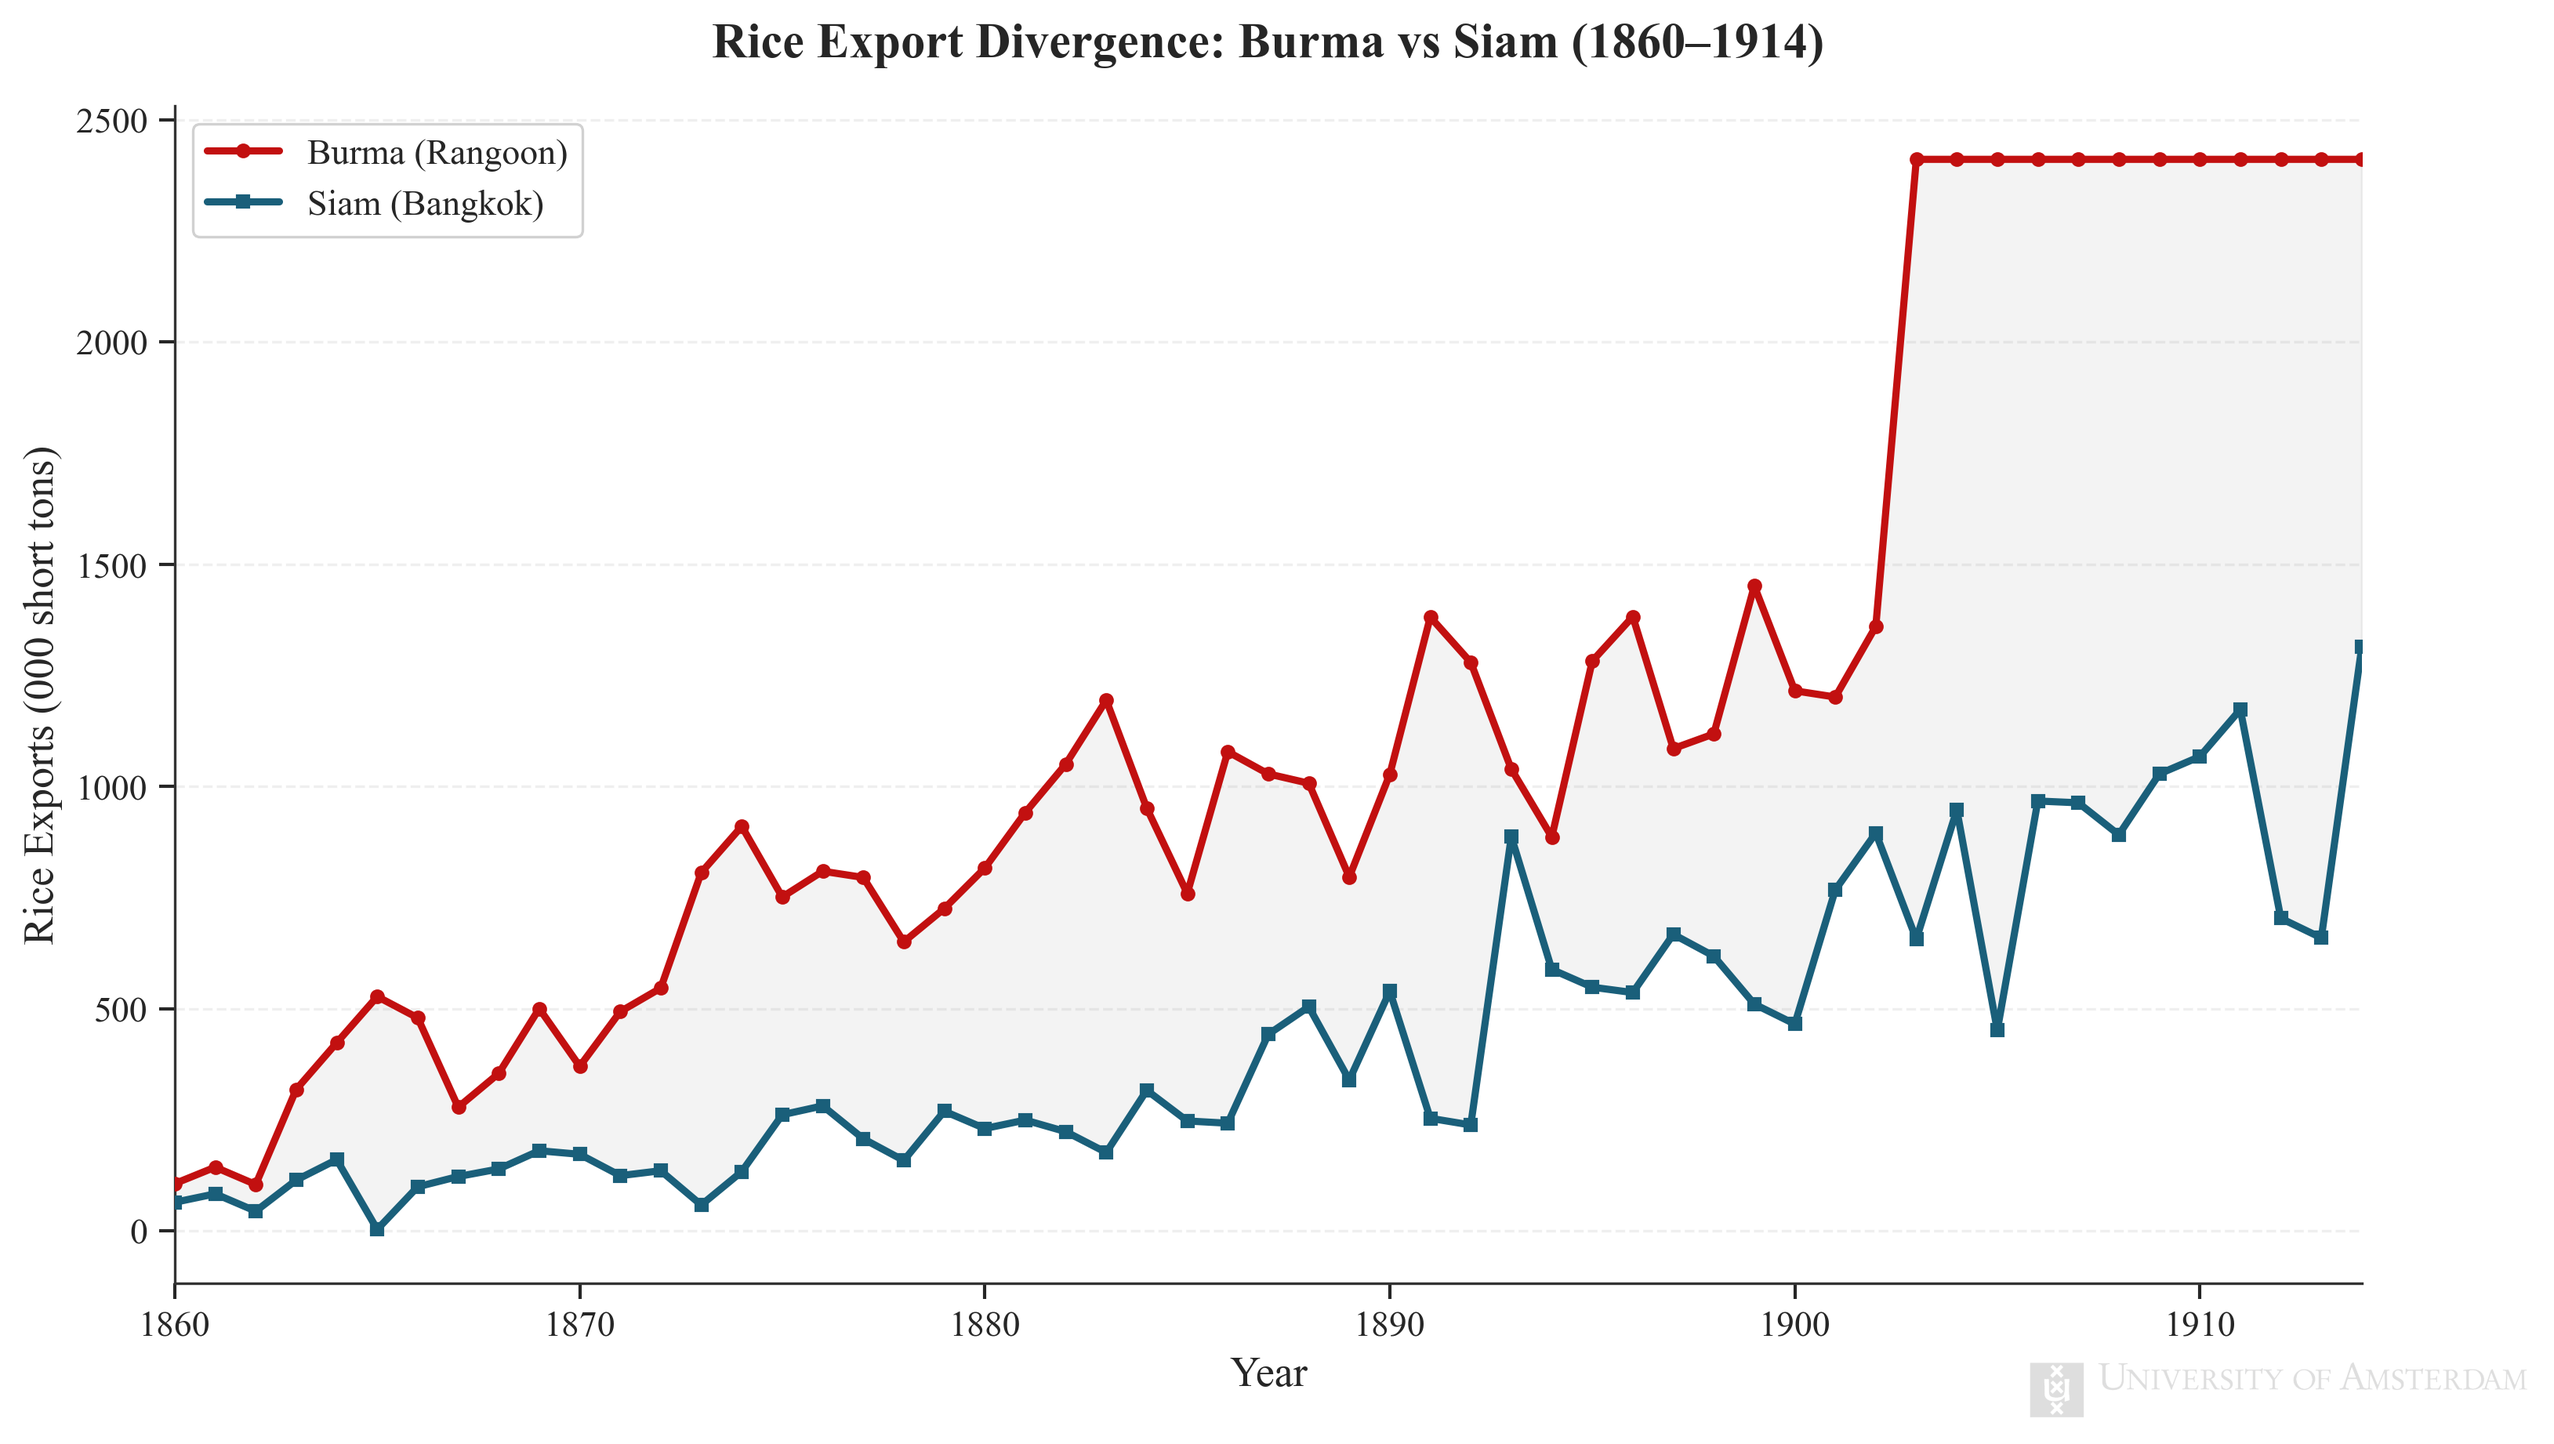
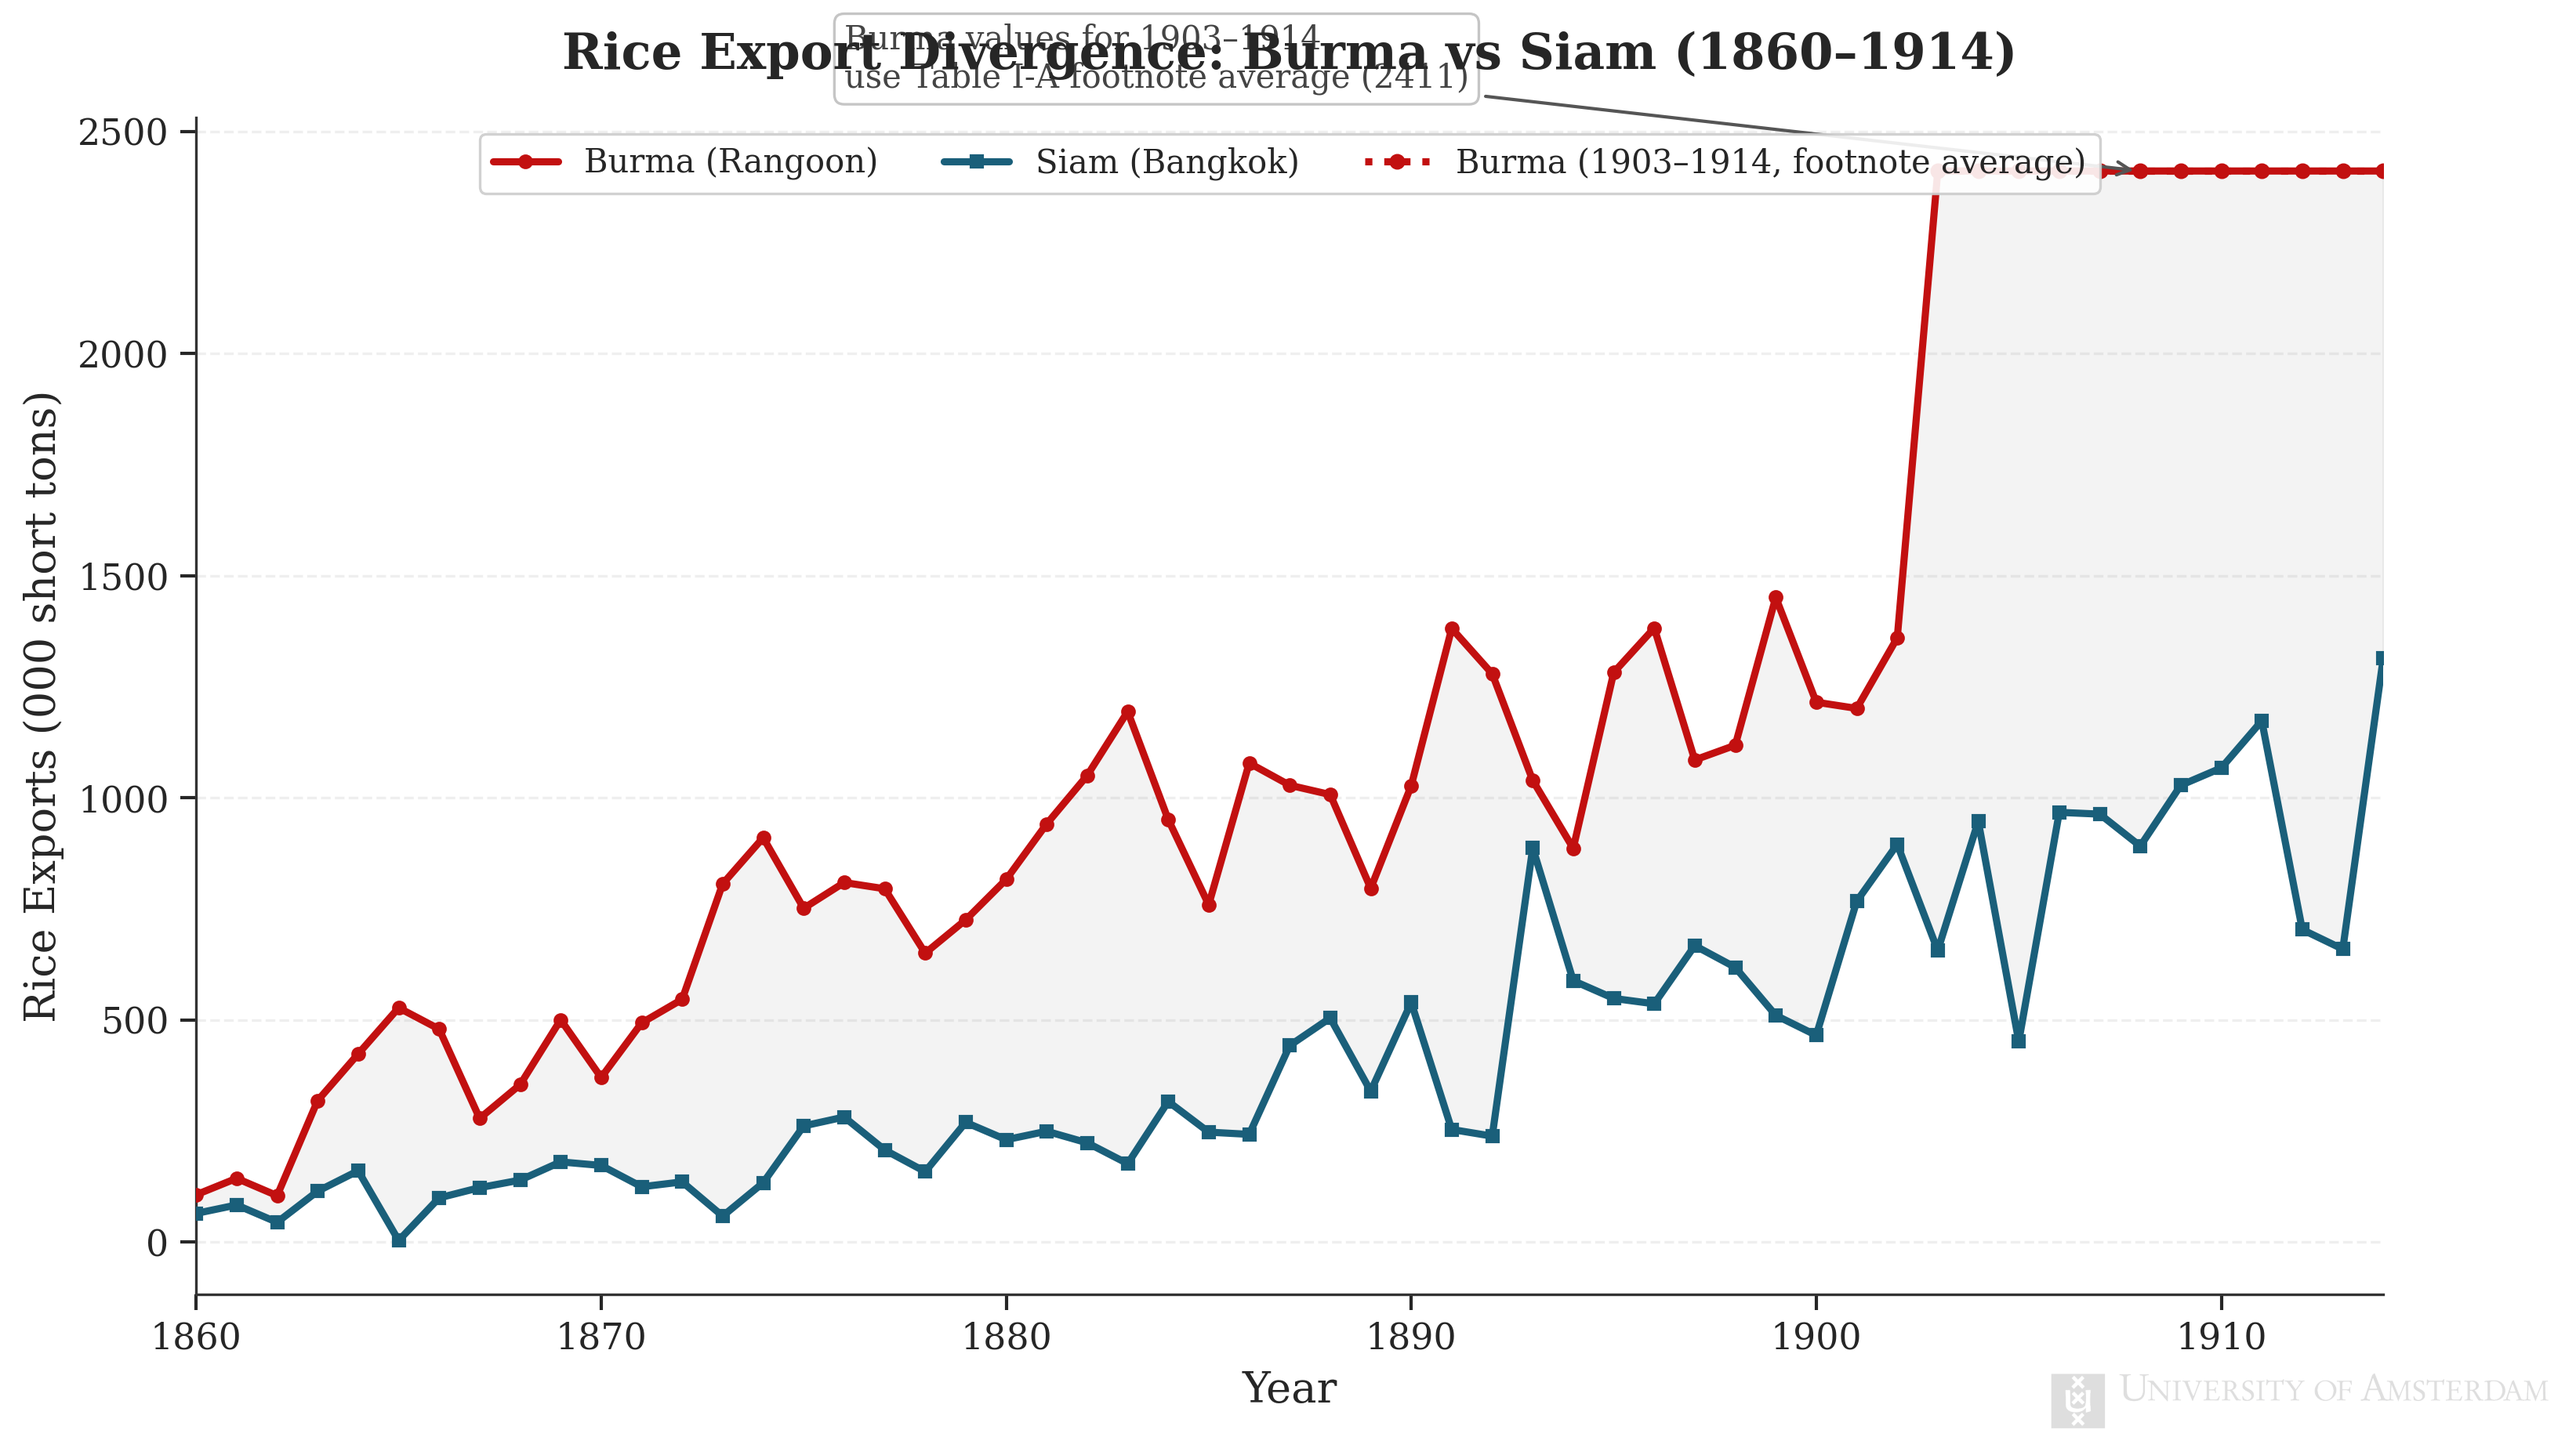
fix: restore analysis execution and clarify imputed rice export segment
Agent-Logs-Url: https://github.com/Coflazo/Development-Economics-Paper-Data-and-Results/sessions/db3ce004-8f10-4fc1-b32b-b64da08dceb6

diff --git a/src/did_analysis.py b/src/did_analysis.py
@@ -66,6 +66,7 @@ rice_data = {
 }
 
 # burma footnote says average is 2411, so using that for the missing years
+burma_avg_1902_11 = 2411
 for i, yr in enumerate(rice_data["Year"]):
     if yr >= 1903 and yr <= 1914 and np.isnan(rice_data["Burma_exports"][i]):
         rice_data["Burma_exports"][i] = burma_avg_1902_11
@@ -103,10 +104,12 @@ df_pol = pd.read_excel(polity_path)
 df_pol = df_pol[df_pol["scode"].isin(["MYA", "THI"])].copy()
 
 # handle the weird -66/-77 codes by making them nan
+for col in ["democ", "autoc"]:
     df_pol[col] = pd.to_numeric(df_pol[col], errors="coerce")
     df_pol.loc[df_pol[col].isin([-66, -77, -88]), col] = np.nan
 
 # the data is in periods, but we need it year by year
+annual_rows = []
 for _, row in df_pol.iterrows():
     start_yr = int(row["byear"])
     end_yr = int(row["eyear"]) if row["eyear"] < 9000 else 2020
@@ -190,7 +193,7 @@ for country in countries:
 
     # only filling polity stuff forward a few years so we dont accidentally make up a regime change
     df_master.loc[idx, "polity2"] = (
-        df_master.loc[idx, "polity2"].fillna(method="ffill", limit=3)
+        df_master.loc[idx, "polity2"].ffill(limit=3)
     )
 
     # fixing gdp gaps but only short ones so we dont jump miles ahead
@@ -414,13 +417,24 @@ ax2.plot(df_rice["Year"], df_rice["Siam_exports"], color="#1A5F7A", linewidth=2.
 ax2.fill_between(df_rice["Year"], df_rice["Burma_exports"], df_rice["Siam_exports"],
                   alpha=0.08, color="#666666", zorder=1)
 
+# clarify that 1903-1914 Burma exports are table-footnote averages
+imputed_mask = df_rice["Year"].between(1903, 1914)
+ax2.plot(df_rice.loc[imputed_mask, "Year"], df_rice.loc[imputed_mask, "Burma_exports"],
+         color="#C21010", linewidth=2.2, linestyle=":", marker="o", markersize=3.8,
+         label="Burma (1903–1914, footnote average)")
+ax2.annotate("Burma values for 1903–1914\nuse Table I-A footnote average (2411)",
+             xy=(1908, 2411), xytext=(1876, 2600),
+             arrowprops=dict(arrowstyle="->", color="#555555", lw=1.0),
+             fontsize=10, color="#444444",
+             bbox=dict(boxstyle="round,pad=0.3", fc="white", ec="#BBBBBB", alpha=0.85))
+
 ax2.set_xlabel("Year", fontsize=13, fontweight="medium")
 ax2.set_ylabel("Rice Exports (000 short tons)", fontsize=13, fontweight="medium")
 ax2.set_title("Rice Export Divergence: Burma vs Siam (1860–1914)",
               fontsize=15, fontweight="bold", fontfamily="serif", pad=15)
 ax2.set_xlim(1860, 1914)
-ax2.legend(loc="upper left", frameon=True, framealpha=0.9, fontsize=11,
-           edgecolor="#cccccc")
+ax2.legend(loc="upper center", ncol=3, frameon=True, framealpha=0.9, fontsize=10,
+            edgecolor="#cccccc")
 ax2.grid(axis="y", alpha=0.3, linestyle="--")
 ax2.tick_params(axis="both", which="major", labelsize=11)
 sns.despine(ax=ax2)
